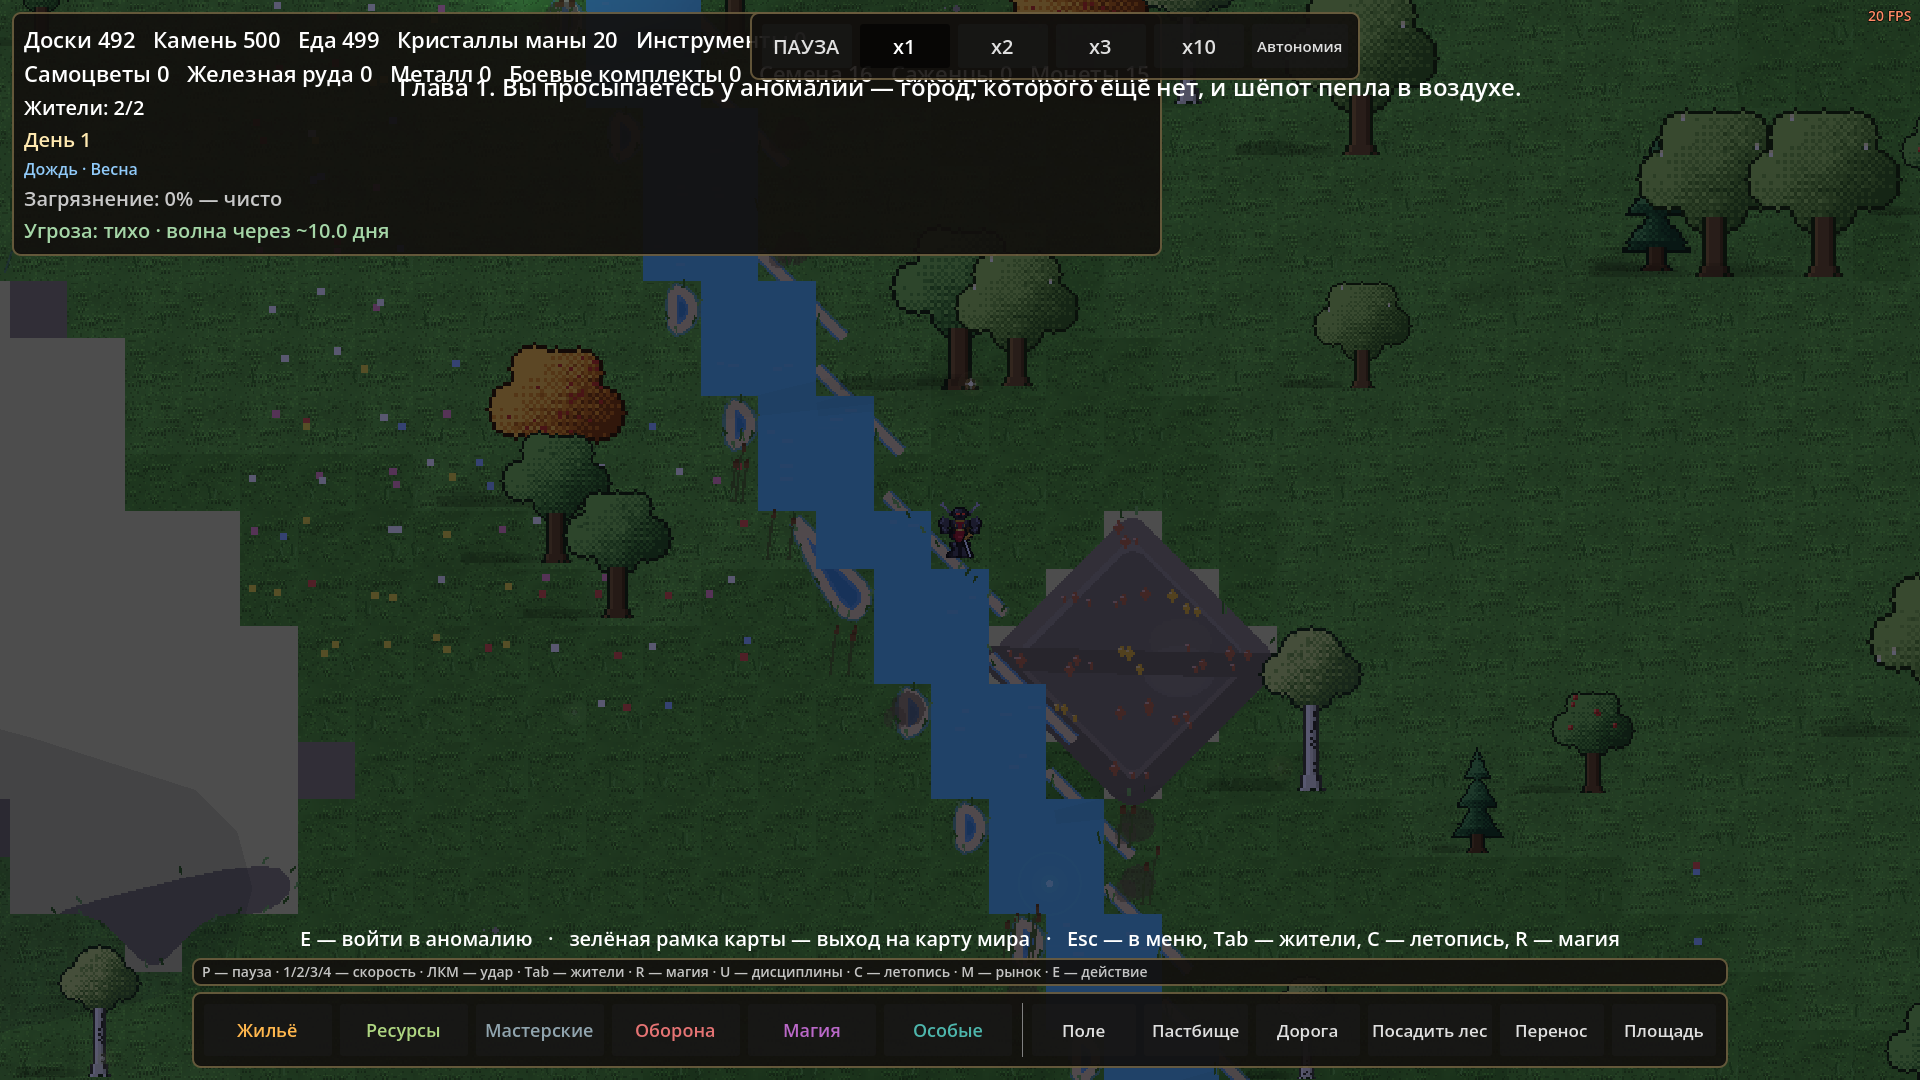
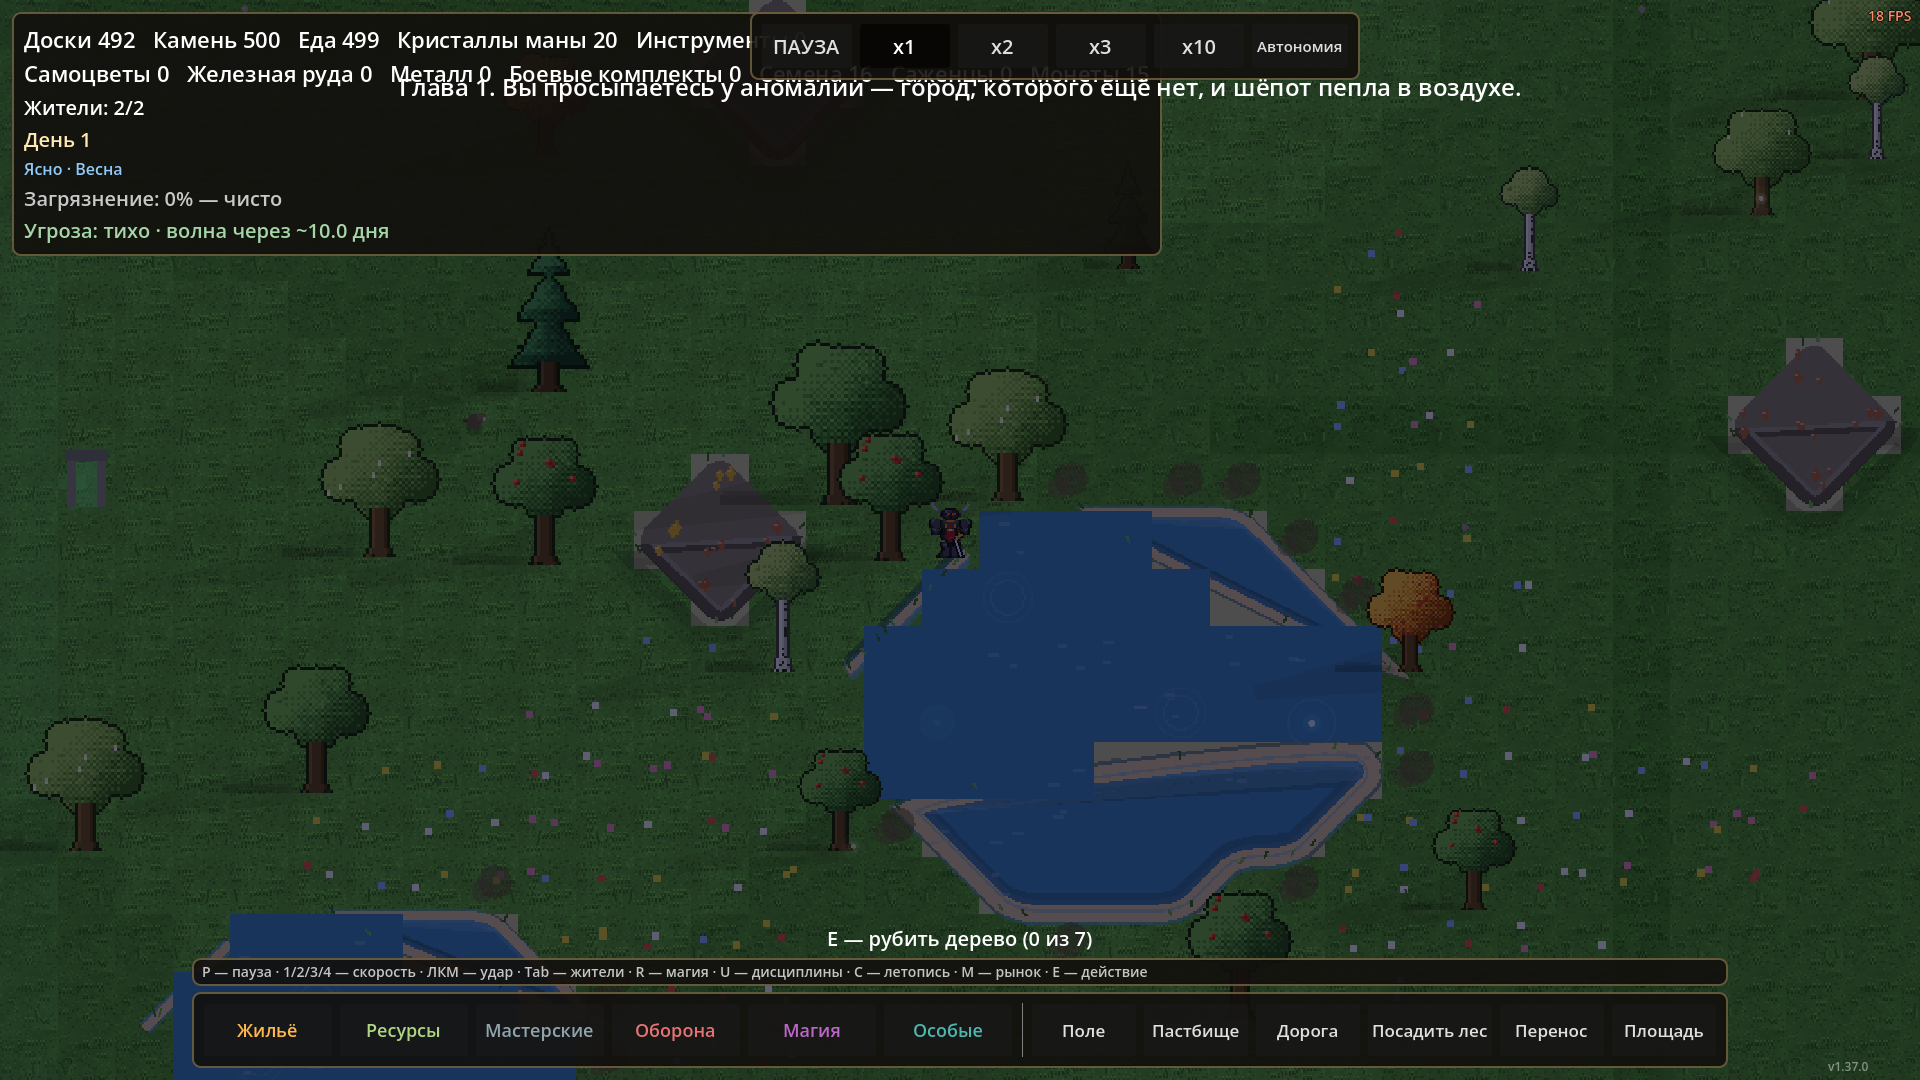
v1.37.1: жилы с мини-срезом, озёра-углубления, версия в HUD города
Фидбек приёмки «скалы и озёра и жилы не поменялись»: main и exe
рендерили новые скалы (в exe версия 1.37.0, старых строк нет) — на
экране заказчика был запущен exe до пересборки. Правки:
- версия игры видна в правом нижнем углу города (какая сборка — ясно
  мгновенно)
- малые гряды/рудные жилы: мини-срез + тень — один язык с большими
- озёра: направленный объём — глубина у южного берега изнутри, блик у
  северного (свет с СЗ); тюнинг lake.side_deep_alpha/side_glint_alpha
- геометрия прогонов контура вынесена в city_terrain (dir_runs /
  stroke_run) — общий код скал и озёр

Тесты: полный прогон зелёный; headless city — 0 SCRIPT ERROR.
Скриншоты: shot_rocks.png (жилы с мини-срезом), shot_water.png
(озеро-углубление).

diff --git a/CHANGELOG_E2.md b/CHANGELOG_E2.md
@@ -1166,3 +1166,37 @@ tools/shot_rocks.gd, tools/shot_rocks.png, README.md.**
 **На приёмку: подойти к гряде с юга — срез и тень «в камеру»; свалить
 скалу героем — трещины и осыпь на месте. Следующий шаг: этап 2
 «Глобальная карта v2» программы «Мир v2» — НОВЫЙ чат.**
+
+## Правки v1.37.1 (2026-10-30, тем же чатом) — «скалы и озёра и жилы не поменялись»
+
+Фидбек приёмки v1.37.0 со скриншотом: у заказчика гряды оставались
+плоскими. Разбор: **main и собранный exe рендерят новые скалы** (в exe
+ровно одна строка версии — 1.37.0, старых нет) — на экране был запущен
+exe ДО пересборки. Чтобы это больше не путало, в правках:
+
+1. **Версия видна В ГОРОДЕ**: маленькая метка «v1.37.1» в правом
+   нижнем углу HUD города (в меню была и раньше) — какая сборка
+   запущена, видно мгновенно.
+2. **Малые гряды и РУДНЫЕ ЖИЛЫ** (≤6 тайлов²) тоже читаются
+   приподнятыми: мини-срез (тёмное основание + светлая полоса) и тень —
+   один язык с большими массивами (в скриншоте заказчика видны и
+   мелкие серые пятна — теперь и они с кромкой).
+3. **ОЗЁРА — направленный объём** (свет с СЗ): тёмный пояс глубины
+   ВНУТРИ у южного берега + светлый блеск у северного — вода читается
+   углублением, согласованно со скалами и плато. Тюнинг:
+   colors.water_tune.lake.side_deep_alpha / side_glint_alpha.
+4. Геометрия «прогонов контура по нормали» вынесена в общий контекст
+   city_terrain (dir_runs/stroke_run) — скалы и озёра делят один код.
+
+Тесты: полный прогон зелёный; headless city — 0 SCRIPT ERROR.
+Скриншоты: tools/shot_rocks.png (крупная гряда + мелкие жилы с
+мини-срезом), tools/shot_water.png (озеро-углубление, SHOT_SEED=77777).
+
+**Файлы: scripts/city_terrain.gd, scripts/rock_terrain.gd,
+scripts/water_lake.gd, scripts/city_hud.gd, data/city.json,
+data/version.json, tools/shot_rocks.png, tools/shot_water.png,
+README.md.**
+
+**Следующий шаг: перезапустить build/ПепелИМана.exe (версия — в правом
+нижнем углу города) и посмотреть; затем этап 2 «Глобальная карта v2»
+программы «Мир v2» — НОВЫЙ чат.**

diff --git a/docs/design/10-природа-и-погода.md b/docs/design/10-природа-и-погода.md
@@ -71,12 +71,17 @@
     визуальный слой (`city_view.gd`), логика по прежним тайлам.
   - Глобальная карта и данжи получат уровни отдельными проходами
     позже (№114 «везде» — поэтапно).
-  - **Скалы языком высоты (v1.37.0, поручение приёмки)**: гряды
-    перерисованы той же схемой — верхняя грань (свет с СЗ), трёхтоновый
-    срез по южной дуге со штрихами-напластованиями, тень у подножия,
-    восточное ребро, редкая зелень на вершинах. Тюнинг:
-    `colors.water_tune.rocks`. Малые валуны и выработанная порода —
-    прежняя отрисовка.
+  - **Скалы языком высоты (v1.37.0 + v1.37.1)**: гряды перерисованы
+    той же схемой — верхняя грань (свет с СЗ), трёхтоновый срез по
+    южной дуге со штрихами-напластованиями, тень у подножия, восточное
+    ребро, редкая зелень на вершинах; МАЛЫЕ гряды и рудные жилы — с
+    мини-срезом и тенью (один язык, v1.37.1). Тюнинг:
+    `colors.water_tune.rocks`. Выработанная порода — прежняя отрисовка.
+  - **Озёра — направленный объём (v1.37.1)**: тёмный пояс глубины у
+    южного берега изнутри + светлый блеск у северного — вода читается
+    углублением (свет с СЗ). Общая геометрия кромок —
+    `city_terrain.dir_runs/stroke_run`. Версия игры видна в правом
+    нижнем углу города (сборка больше не путается).
 
 ## 6. Хочу добавить / изменить
 

diff --git a/СЛЕДУЮЩИЙ-ШАГ.md b/СЛЕДУЮЩИЙ-ШАГ.md
@@ -14,7 +14,11 @@
   приподнятые массивы — верхняя грань светлее (свет с СЗ), трёхтоновый
   срез по южной дуге с напластованиями, тень у подножия, редкая зелень
   на вершинах. Тюнинг: city.json → colors.water_tune.rocks.
-  Скриншот: tools/shot_rocks.png. НА ПРИЁМКЕ.
+  Скриншот: tools/shot_rocks.png.
+  Правки v1.37.1 (фидбек «не поменялись» — был запущен старый exe):
+  версия видна в правом нижнем углу ГОРОДА; малые жилы с мини-срезом;
+  озёра — направленный объём (глубина у юга, блик у севера).
+  **Перезапустить build/ПепелИМана.exe и сверить версию в углу.**
 
 - **Правки v1.36.1 (2026-10-30, тем же чатом) — ощущение подъёма**:
   юниты и статика на плато стоят выше равнины (34% тайла за уровень),
@@ -83,7 +87,8 @@
 
 ## Кратко: что было в последних версиях (детали — CHANGELOG_E2.md)
 
-- **v1.37.0** — скалы языком высоты: грань/срез/тень/зелень на вершинах.
+- **v1.37.0–v1.37.1** — скалы и жилы языком высоты (грань/срез/тень/
+  зелень), озёра-углубления, версия в HUD города.
 - **v1.36.0–v1.36.1** — многоуровневый рельеф города: плато/террасы
   по схеме Hills, лестницы-проходы, A* по уровням, оборонный бонус
   плато, стройка на плато, сейв высот; ощущение подъёма (лифт юнитов).

diff --git a/README.md b/README.md
@@ -1,4 +1,4 @@
-# Пепел и Мана — v1.37.0
+# Пепел и Мана — v1.37.1
 
 [![Тесты](https://github.com/SDVGames-Studio/pepel-i-mana/actions/workflows/tests.yml/badge.svg)](https://github.com/SDVGames-Studio/pepel-i-mana/actions/workflows/tests.yml)
 
